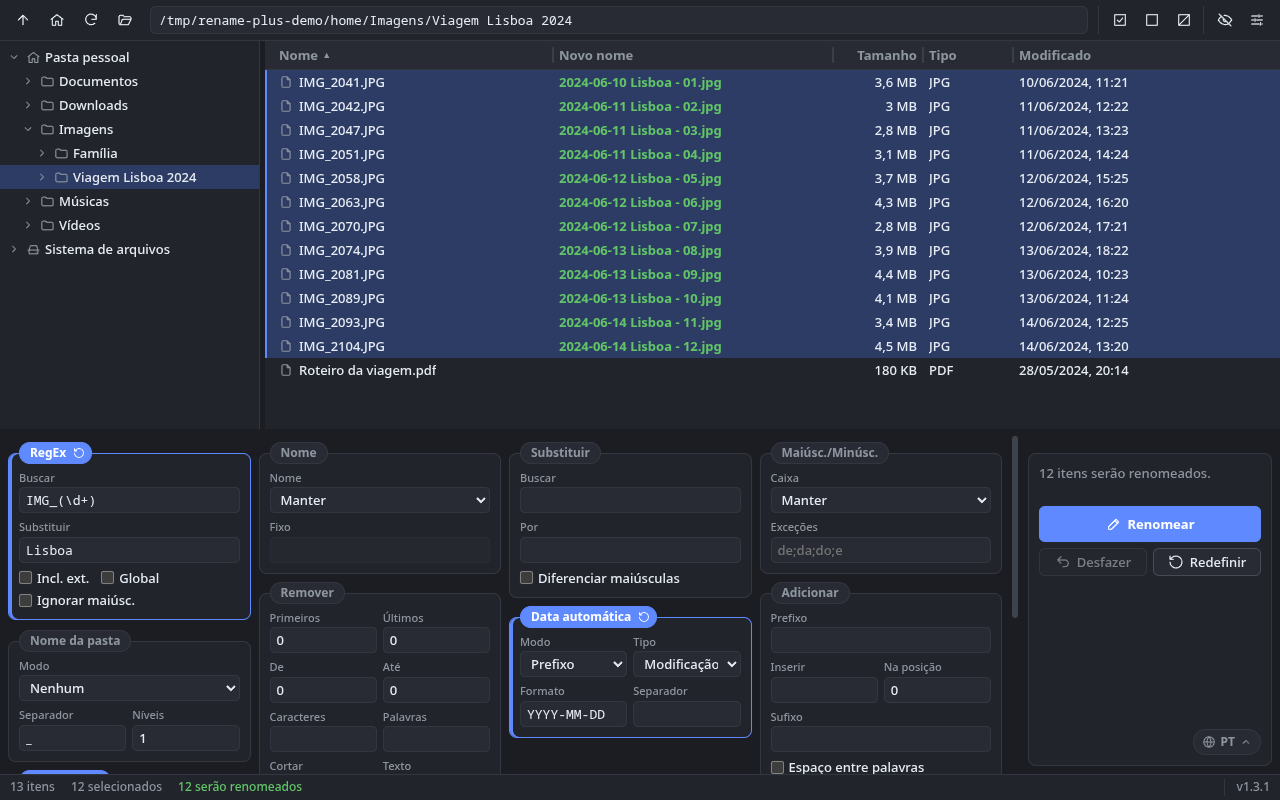
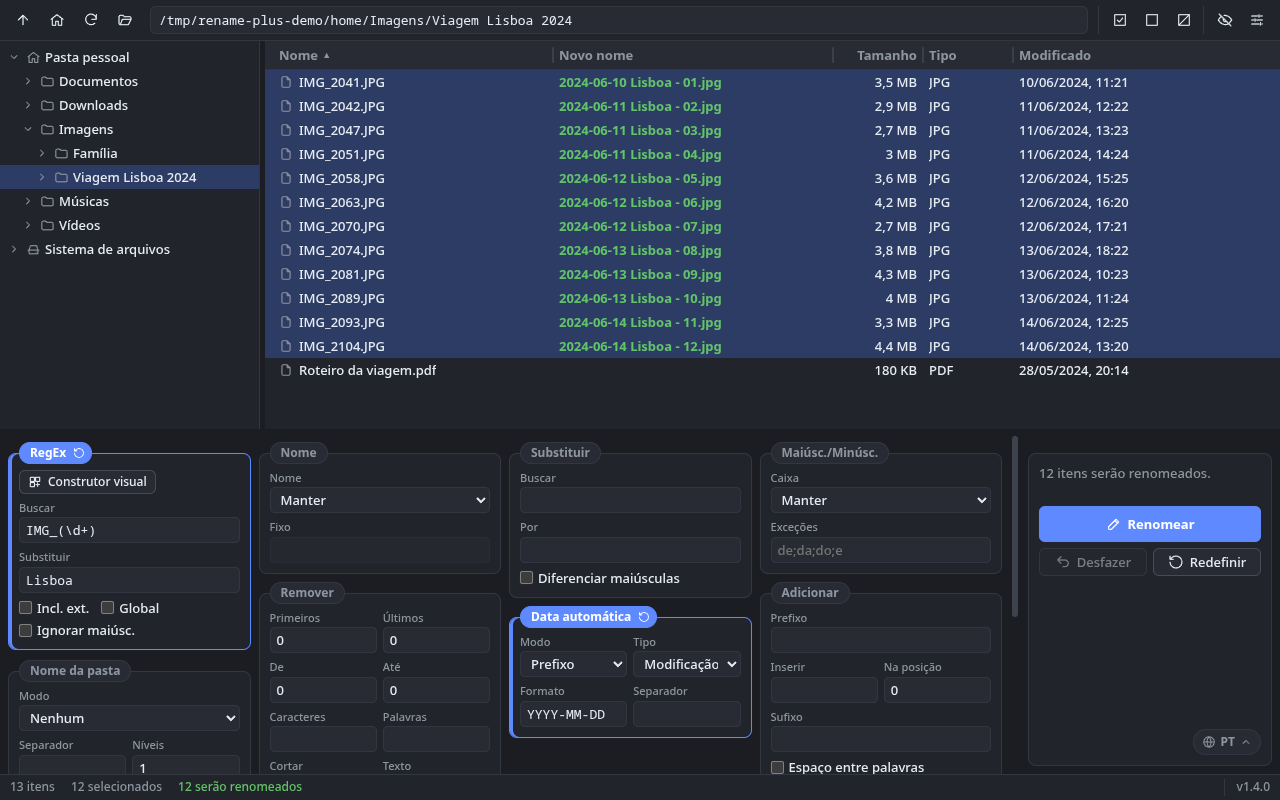
docs: prints da versão 1.4.0
- Print principal e de Configurações refeitos (botão do construtor
  visual, seções Atualizações e Pastas monitoradas, versão 1.4.0)
- Novos: construtor visual de RegEx, pastas monitoradas em segundo
  plano e teste/atividade de uma regra
- Legendas nos três READMEs

Changed region(s): [[0.0, 0.5938, 0.125, 0.9688], [0.0938, 0.875, 0.125, 0.9375]]

diff --git a/README.es-ES.md b/README.es-ES.md
@@ -84,9 +84,26 @@ Las capturas muestran la interfaz en portugués. La aplicación también está d
       <p><b>Arrastrar y soltar.</b> Suelta una carpeta para abrirla, o archivos para abrir su carpeta con ellos ya seleccionados.</p>
     </td>
     <td width="50%" valign="top">
-      <a href="docs/screenshots/configuracoes.png"><img src="docs/screenshots/configuracoes.png" alt="Diálogo de Configuración con las secciones Apariencia y Menú contextual del sistema, con Dolphin añadido"></a>
-      <p><b>Configuración.</b> Tema de la interfaz y las opciones «Abrir en Rename Plus» en el menú contextual del gestor de archivos.</p>
+      <a href="docs/screenshots/configuracoes.png"><img src="docs/screenshots/configuracoes.png" alt="Configuración con las secciones Apariencia, Actualizaciones y Carpetas vigiladas; la versión instalada 1.4.0 es la más reciente"></a>
+      <p><b>Configuración.</b> Tema de la interfaz, comprobación de actualizaciones en GitHub y carpetas vigiladas, además de las opciones «Abrir en Rename Plus» en el menú contextual del gestor de archivos.</p>
     </td>
+  </tr>
+  <tr>
+    <td width="50%" valign="top">
+      <a href="docs/screenshots/construtor-regex.png"><img src="docs/screenshots/construtor-regex.png" alt="Constructor visual de RegEx: paleta de bloques, la búsqueda 'Inicio del nombre + Texto exacto IMG_ + Números (Fragmento 1)' y el reemplazo 'Texto + Fragmento guardado'"></a>
+      <p><b>Constructor visual de RegEx.</b> La búsqueda y el reemplazo se arman con bloques que se arrastran, con ejemplos listos. Aquí, <code>IMG_2041.JPG</code> pasa a <code>Foto 2041.JPG</code>.</p>
+    </td>
+    <td width="50%" valign="top">
+      <a href="docs/screenshots/pastas-monitoradas.png"><img src="docs/screenshots/pastas-monitoradas.png" alt="Carpetas vigiladas: segundo plano activado y la regla 'Faturas' vigilando los PDF de la carpeta Downloads"></a>
+      <p><b>Carpetas vigiladas.</b> Los PDF que llegan a Downloads reciben la fecha delante, pasan a Título y van a <code>Documentos/Faturas</code>, incluso con la aplicación cerrada (segundo plano activado).</p>
+    </td>
+  </tr>
+  <tr>
+    <td width="50%" valign="top">
+      <a href="docs/screenshots/pastas-monitoradas-atividade.png"><img src="docs/screenshots/pastas-monitoradas-atividade.png" alt="Regla de carpeta vigilada con un nombre de prueba y la actividad reciente con tres PDF renombrados y movidos"></a>
+      <p><b>Prueba y actividad.</b> Prueba la regla con un nombre de ejemplo antes de que llegue ningún archivo y consulta en el registro de actividad qué se renombró (o qué falló).</p>
+    </td>
+    <td width="50%" valign="top"></td>
   </tr>
 </table>
 

diff --git a/README.pt-BR.md b/README.pt-BR.md
@@ -82,9 +82,26 @@ A interface segue o modelo de três áreas: árvore de pastas à esquerda, lista
       <p><b>Arrastar e soltar.</b> Solte uma pasta para abri-la, ou arquivos para abrir a pasta deles já com eles selecionados.</p>
     </td>
     <td width="50%" valign="top">
-      <a href="docs/screenshots/configuracoes.png"><img src="docs/screenshots/configuracoes.png" alt="Modal de Configurações com as seções Aparência e Menu de contexto do sistema, com o Dolphin adicionado"></a>
-      <p><b>Configurações.</b> Tema da interface e as opções "Abrir no Rename Plus" no menu de contexto do gerenciador de arquivos.</p>
+      <a href="docs/screenshots/configuracoes.png"><img src="docs/screenshots/configuracoes.png" alt="Configurações com as seções Aparência, Atualizações e Pastas monitoradas; a versão instalada 1.4.0 é a mais recente"></a>
+      <p><b>Configurações.</b> Tema da interface, verificação de atualizações no GitHub e pastas monitoradas, além das opções "Abrir no Rename Plus" no menu de contexto do gerenciador de arquivos.</p>
     </td>
+  </tr>
+  <tr>
+    <td width="50%" valign="top">
+      <a href="docs/screenshots/construtor-regex.png"><img src="docs/screenshots/construtor-regex.png" alt="Construtor visual de RegEx: paleta de blocos, a busca 'Início do nome + Texto exato IMG_ + Números (Trecho 1)' e a substituição 'Texto + Trecho guardado'"></a>
+      <p><b>Construtor visual de RegEx.</b> A busca e a substituição são montadas com blocos arrastáveis, com exemplos prontos. Aqui, <code>IMG_2041.JPG</code> vira <code>Foto 2041.JPG</code>.</p>
+    </td>
+    <td width="50%" valign="top">
+      <a href="docs/screenshots/pastas-monitoradas.png"><img src="docs/screenshots/pastas-monitoradas.png" alt="Pastas monitoradas: segundo plano ativado e a regra 'Faturas' monitorando PDFs na pasta Downloads"></a>
+      <p><b>Pastas monitoradas.</b> PDFs que chegam em Downloads ganham a data na frente, viram Título e vão para <code>Documentos/Faturas</code>, mesmo com o app fechado (segundo plano ativado).</p>
+    </td>
+  </tr>
+  <tr>
+    <td width="50%" valign="top">
+      <a href="docs/screenshots/pastas-monitoradas-atividade.png"><img src="docs/screenshots/pastas-monitoradas-atividade.png" alt="Regra de pasta monitorada com um nome de teste e a atividade recente com três PDFs renomeados e movidos"></a>
+      <p><b>Teste e atividade.</b> Teste a regra com um nome de exemplo antes de qualquer arquivo chegar e veja no registro de atividade o que foi renomeado (ou o que falhou).</p>
+    </td>
+    <td width="50%" valign="top"></td>
   </tr>
 </table>
 

diff --git a/README.md b/README.md
@@ -84,9 +84,26 @@ The screenshots show the Portuguese interface. The app is also available in Engl
       <p><b>Drag and drop.</b> Drop a folder to open it, or drop files to open their folder with them already selected.</p>
     </td>
     <td width="50%" valign="top">
-      <a href="docs/screenshots/configuracoes.png"><img src="docs/screenshots/configuracoes.png" alt="Settings dialog with the Appearance and System context menu sections, with Dolphin added"></a>
-      <p><b>Settings.</b> Interface theme and the "Open in Rename Plus" entries in the file manager's context menu.</p>
+      <a href="docs/screenshots/configuracoes.png"><img src="docs/screenshots/configuracoes.png" alt="Settings dialog with the Appearance, Updates and Watch folders sections; the installed version 1.4.0 is up to date"></a>
+      <p><b>Settings.</b> Interface theme, update checks on GitHub and watch folders, besides the "Open in Rename Plus" entries in the file manager's context menu.</p>
     </td>
+  </tr>
+  <tr>
+    <td width="50%" valign="top">
+      <a href="docs/screenshots/construtor-regex.png"><img src="docs/screenshots/construtor-regex.png" alt="Visual RegEx builder: palette of blocks, the search 'Start of name + Exact text IMG_ + Numbers (Match 1)' and the replacement 'Text + Kept match'"></a>
+      <p><b>Visual RegEx builder.</b> The search and the replacement are built from drag-and-drop blocks, with ready-made examples. Here, <code>IMG_2041.JPG</code> becomes <code>Foto 2041.JPG</code>.</p>
+    </td>
+    <td width="50%" valign="top">
+      <a href="docs/screenshots/pastas-monitoradas.png"><img src="docs/screenshots/pastas-monitoradas.png" alt="Watch folders settings: background watching turned on and the 'Faturas' rule watching Downloads for PDF files"></a>
+      <p><b>Watch folders.</b> PDFs that land in Downloads get the date in front, Title Case and go to <code>Documentos/Faturas</code>, even with the app closed (background watching on).</p>
+    </td>
+  </tr>
+  <tr>
+    <td width="50%" valign="top">
+      <a href="docs/screenshots/pastas-monitoradas-atividade.png"><img src="docs/screenshots/pastas-monitoradas-atividade.png" alt="Watch folder rule with a test name and the recent activity list showing three PDFs renamed and moved"></a>
+      <p><b>Test and activity.</b> Try the rule with a sample name before any file arrives, and see what was renamed (or what failed) in the activity log.</p>
+    </td>
+    <td width="50%" valign="top"></td>
   </tr>
 </table>
 
